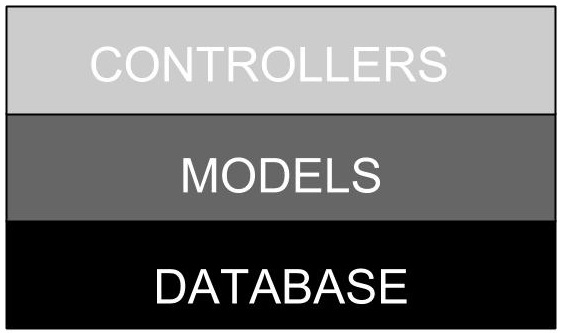
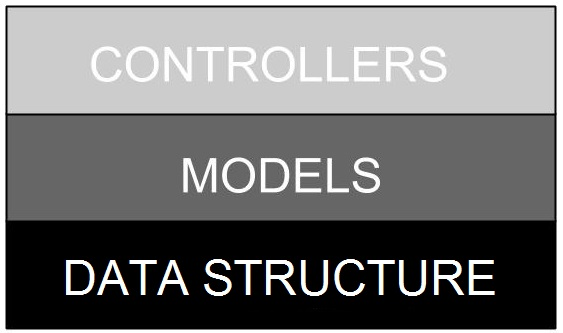
Adds architectural rationale, updates diagrams for server. Some more changes

Changed region(s): [[0.0906, 0.7808, 0.8757, 0.9309]]

diff --git a/Report/Report.tex b/Report/Report.tex
@@ -647,10 +647,10 @@ To manage this we set up meetings for the group. Once a week, we arranged a cust
 \subsection{Customer meeting}
 We held weekly meetings with the customer. The meeting day and time was scheduled on a weekly basis, and more or less bound to Tuesdays or Wednesdays. The goal with these meetings was to establish a common understanding on how the system should be, and find the right requirements to agree upon. To make sure we are in an understanding with the customer, we take notes and create minutes from the meeting. This is in turn sent back to the customer, who either approves them or brings back feedback on what was misunderstood for the next weeks meeting. If anything happened to be misunderstood, this will be detected and changed within a week, preventing major workloads on the wrong premise. In addition to the minutes, we used action points, which are activities the customer wants us to look into or complete before the next meeting. This could be creating time estimates of user tests, architecture overviews, UI suggestions and more.
 
-\subsection{Advisor meeting}
+\subsection{Advisor project meeting}
 Once a week, we met with the advisor to discuss how the project was coming along. If the team faced any problems with the project or the team which we could not manage solving by ourselves, this was the place to get assistance. This could be anything from lack of required knowledge to personal conflicts within the team. The meetings were also held to give the advisor an overview of our situation. Weekly status reports and timesheets were given to help the advisor keeping an overview of the progress of the project.
 
-\subsection{Group meeting}
+\subsection{Internal group meeting}
 At least once a week, we held group meetings. The goal with these meetings was to help synchronizing the group, updating all the members on what was done and what was to be done, raise important questions about further progress, or simply having a place to raise questions or concerns that does not fit other places. Although we simultaneously used a shared document where the team members wrote their progress and intended actions, the meetings ensured everyone was being a part of the update. Important decisions also benefited from having all team members come together on a solution, so no one feels left out of the process as well as smart solutions that otherwise might be overlooked is included.  In that regard, group meetings were held when as many as possible could attend.
 
 \section{Templates and procedures}
@@ -686,15 +686,15 @@ The most famous organization working with cultural heritage is UNESCO \cite{UNES
 
 There are seven listings in Norway that the UNESCO World Heritage Committee consider having outstanding universal value, that is;
 
-\begin{itemize}
-  \item Bryggen, Bergen
-  \item Urnes Stave Church, Luster in Sogn and Fjordane
-  \item Røros Mining Town and the Circumference, Røros in Sør-Trøndelag
-  \item Rock Art of Alta, Alta in Finnmark
-  \item Vegaøyan -- The Vega Archipelago, Vega in Helgeland
+\begin{enumerate}
+  \item Bryggen, Bergen, Hordaland
+  \item Urnes Stave Church, Luster, Sogn and Fjordane
+  \item Røros Mining Town and the Circumference, Røros, Sør-Trøndelag
+  \item Rock Art of Alta, Alta, Finnmark
+  \item Vegaøyan -- The Vega Archipelago, Vega, Helgeland
   \item Struve Geodetic Arc, multiple measuring points in several countries
-  \item West Norwegian Fjords - Geiranger and Nærøyfjord
-\end{itemize}
+  \item West Norwegian Fjords - Geiranger and Nærøyfjord, Møre and Romsdal, and Sogn and Fjordane
+\end{enumerate}
 
 These are really marvelous pieces of cultural heritage, but is that it? Does Norway have only seven sights that are considered as cultural heritage and worth a visit? Of course not, our scope is much broader than that. It is up to the users to decide what cultural heritage is.
 
@@ -862,7 +862,7 @@ All the applications we have looked at are great pieces of technology. It educat
 We see that every applications has their own advantages, and we hope that we can purify some of these and perhaps even come up with some new revolutionary features.
 
 
-\section{Work methodology}
+\section{Life cycle model}
 There are different ways of approaching a project. Two of the more commonly used methods are Waterfall and SCRUM.
 
 \subsection{Waterfall}
@@ -1276,7 +1276,7 @@ The retriever for places from Flickr has some additional functionality in order 
 \subsubsection{Development view}
 This view follows the description in section ~\ref{subsec:developmentViewDescription}
 
-DATABASE represents all the data. In this layer the work of structuring the data and figuring out the database design is also included.
+DATA STRUCTURE indicates where and in which format the data is to be stored.
 
 MODELS represents the classes that will be used to work with the database from the rest of the backend code. The models will abstract away the database, so that it can be changed in its entirety if needed without changing any other code.
 
@@ -1377,7 +1377,7 @@ The clients only communicate with the broker and Twitter.
 \end{figure}
 
 \section{Communication interfaces}\label{sec:arch_communicationinterfaces}
-Getting data from the server and by that, the services it consumes, is done by accessing given \glspl{url} and recieving \gls{json} as a return value.
+Getting data from the server and by that, the services it consumes, is done by accessing a given \glspl{url} and recieving \gls{json} as a return value.
 
 \subsection{Places}\label{placesjson}
 To access the places in the system, two options are availiable.
@@ -1540,7 +1540,15 @@ Returns a collection of stories like this:
 \end{lstlisting}
 
 \section{Architectural rationale}
+Use of the Client-Server pattern ensures clean separation between the display unit and the content provider, and also helps modifiability and speed of development by providing an uniform \gls{api}.
 
+By keeping coupeling to a minimum, the system becomes more testable and modifiable. This will help satisfy both the functional and non-functional requirements.
+
+The Broker pattern on the server increases modifiability even though it introduces a single point of failure, but that can be mitigated by running a replica server in production.
+
+Using the \gls{mvc} pasttern on the client provides a clean separation between logic and presentation which gives better structure to the code, increases modifiability and makes managing the code easier.
+
+Titanium Alloy functions as a adapter between the client application and the targeted devices, and helps portability by abstracting away platform specific code where needed.
 
 \chapter{Testing}
 

diff --git a/Report/Glossary.tex b/Report/Glossary.tex
@@ -12,3 +12,4 @@
 \newacronym{dd}{DD}{Decimal Degrees}
 \newacronym{jpa}{JPA}{Java Persistence API}
 \newacronym{VirtualWall}{Virtual Wall}{By virtual wall, we understand a virtual space where users can share stories like on a real-life wall. Stories can be textual, as well as featuring interactive media like video, audio, images or hypertext. }
+\newacronym{api}{API}{Application programming interface}
